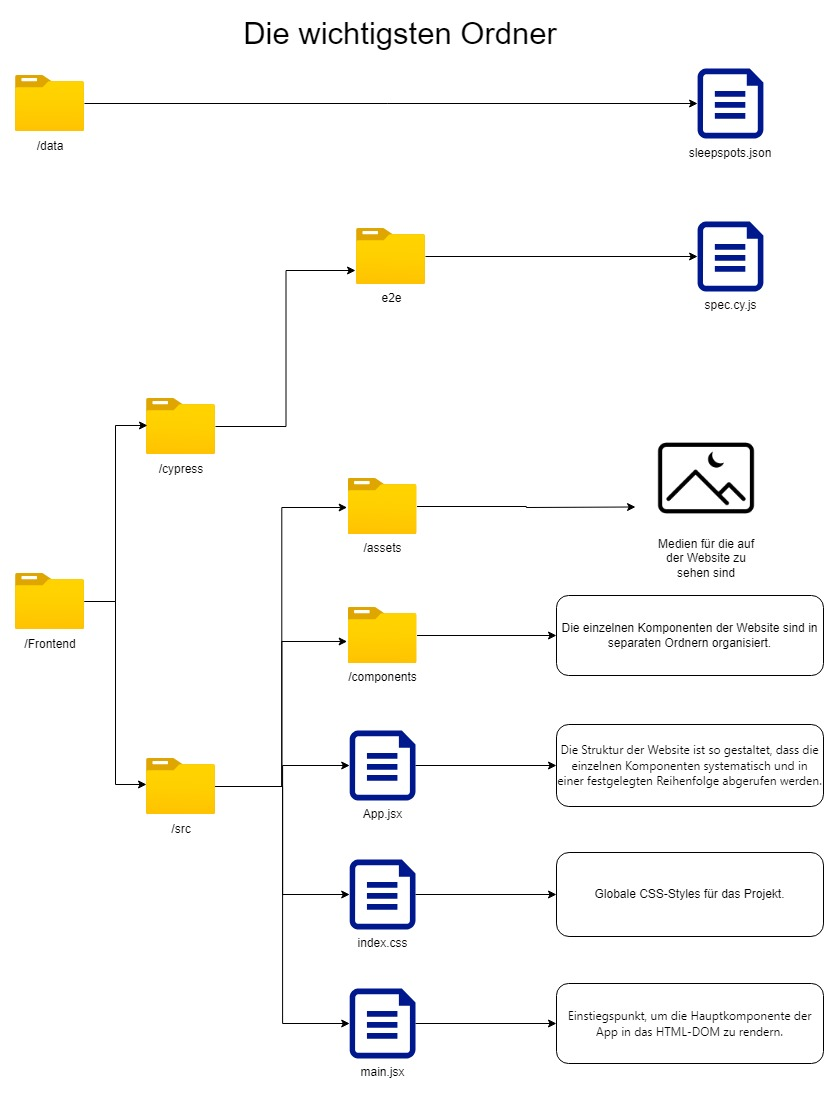
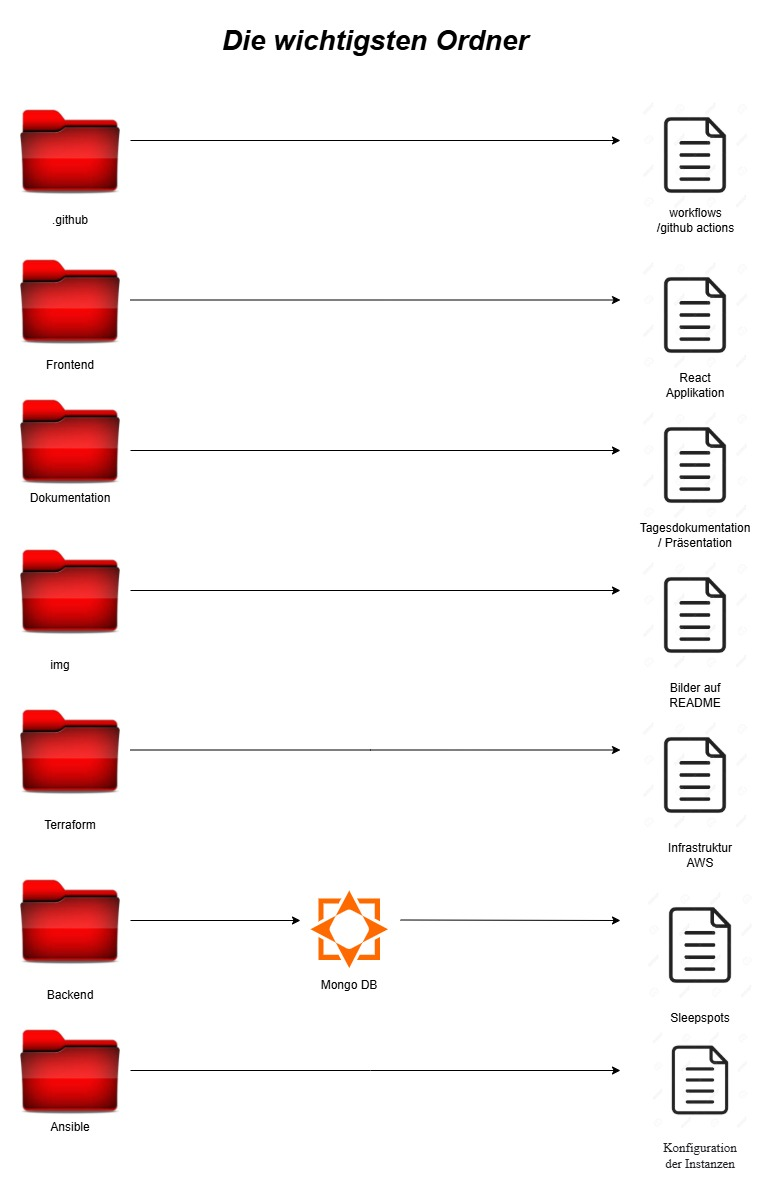
bericht Tag 7

diff --git a/README.md b/README.md
@@ -2,6 +2,14 @@
 
 ![Screenshot der Website](./img/Screenshot.png)
 
+### Inhaltsverzeichnis
+
+1. [Projektbeschreibung](#projektbeschreibung)
+2. [Technologien](#technologien)
+3. [Installation](#installation)
+4. [Projektstruktur](#projektstruktur)
+5. [Testen](#testen)
+
 ### Projektbeschreibung
 
 Van Ventura ist ein innovatives Projekt, das sich an leidenschaftliche Camper und solche
@@ -10,13 +18,14 @@ Campingregeln verschiedener Länder (die Flaggen mit Hover Effekt) und integrier
 ist sowohl verspielt als auch minimalistisch gehalten, was eine benutzerfreundliche und
 ansprechende Erfahrung gewährleistet.
 
-## 🚀 **Technologien**
+## Technologien
 
 - Frontend: React, Vite, AWS Cognito
 - Backend: Node.js + Express
 - Datenbank: MongoDB Atlas
 - Infrastruktur: Terraform, Ansible + Ci/CD durch github Aktion
 - Testing: Vitest
+- Infrastruktur mit draw.io dokumentiert
 
 ## Installation
 
@@ -47,11 +56,4 @@ ansprechende Erfahrung gewährleistet.
 
 - auf vitest ändern
 
-### 🎯 **Warum ist diese README gut?**
 
-✅ Kurz & klar – Sie erklärt das Projekt einfach.  
-✅ Installationsanleitung – Schritt-für-Schritt erklärt.  
-✅ API-Dokumentation – Falls du später mehr Endpunkte hast.  
-✅ Screenshots & TODOs – Zeigt den Status des Projekts.
-
-p

diff --git a/Dokumentation/Martina/Martina.md b/Dokumentation/Martina/Martina.md
@@ -52,3 +52,9 @@ https://github.com/klatschenderaffe/VAN_VENTURA  Dokumentation weiter führen
  
  https://www.youtube.com/watch?v=ITylO9fpDmY
 
+# Tag 7
+
+- Readme angefangen zu überarbeiten
+- Inhaltsverzeichnis dazu geschrieben
+- in draw.io Infrastruktur neu erstellt für die Readme (erstmal)
+

diff --git a/Dokumentation/Dilara/Dilara.md b/Dokumentation/Dilara/Dilara.md
@@ -23,3 +23,7 @@
   - weiter an den vietests geschrieben
   - Tagesordnung besprochen
   - Vitest erfolgreich geschrieben
+
+  # Tag 7
+   - Mapverknüpfung mit Frondend
+   - tolls dazu angeschaut
